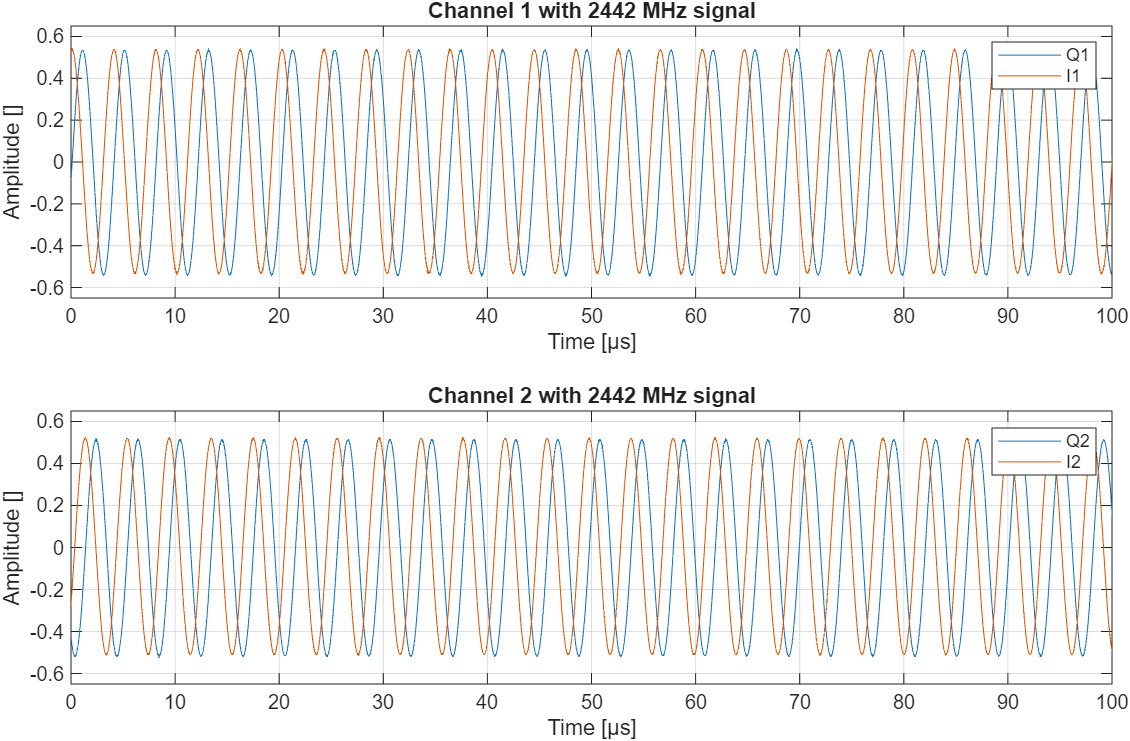
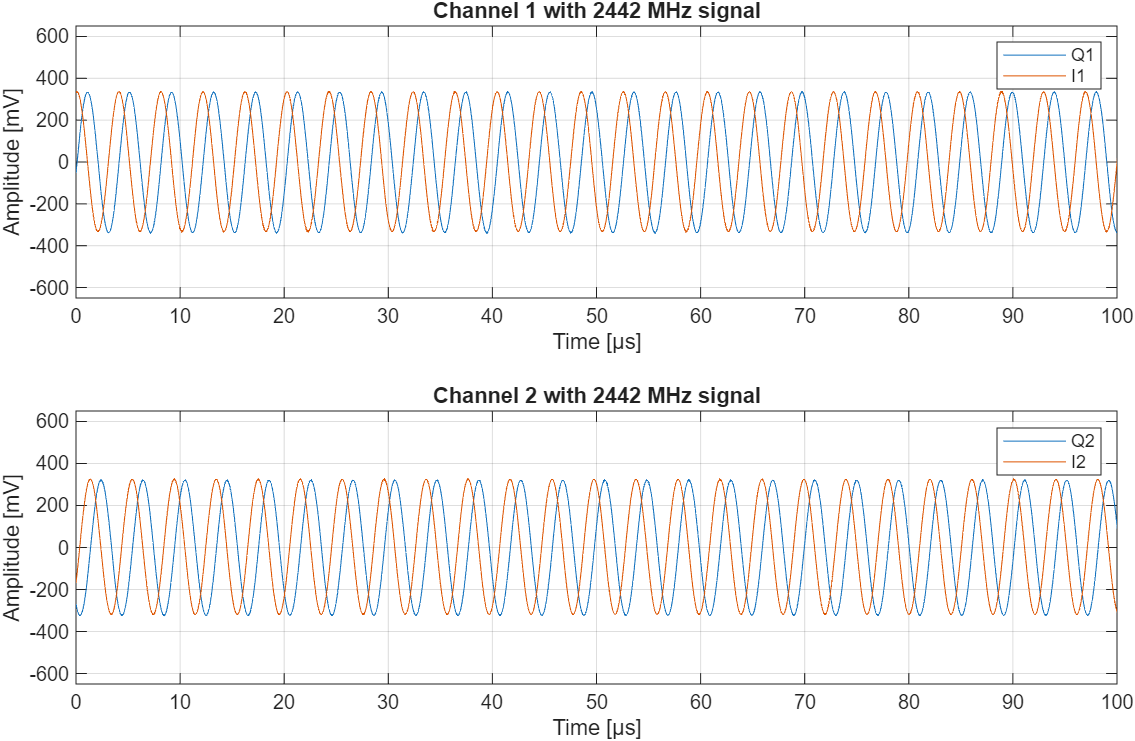
Fikset akse titler og værdier på figure i forhold til validation test af RF front end

diff --git a/04 Prototype udvikling/Front end/RX-frontend V.5 (FINAL)/Not gain adjusted/Test og plot/Plotter.m b/04 Prototype udvikling/Front end/RX-frontend V.5 (FINAL)/Not gain adjusted/Test og plot/Plotter.m
@@ -5,82 +5,73 @@ close all
 load("data.mat")
 
 % Test af Signal generator direkte ind i BladeRF
+% input 400 mVpp
 % Burde få 250kHz ind efter downmixing
 sps = 61.44e6;
 
 %% 2442 MHz
 
-I1 = real(x2442MHz_RX1.Ch1);
-Q1 = imag(x2442MHz_RX1.Ch1);
+I1 = real(x2442MHz_RX1.Ch1)*0.625;
+Q1 = imag(x2442MHz_RX1.Ch1)*0.625;
 
 N_Q1 = length(Q1);
 T_Q1 = (0:(N_Q1-1)) / sps;
 N_I1 = length(I1);
 T_I1 = (0:(N_I1-1)) / sps;
 disp("2442 MHz input")
-fprintf('Maximum amplitude Q1: %.2f m\n', max(Q1)*10^3);
-fprintf('Minimum amplitude Q1: %.2f m\n', min(Q1)*10^3);
-fprintf('Maximum amplitude I1: %.2f m\n', max(I1)*10^3);
-fprintf('Minimum amplitude I1: %.2f m\n', min(I1)*10^3);
-
-fprintf('Maximum amplitude (Volt) Q1: %.2f mV\n', (max(Q1)*10^3)*0.625);
-fprintf('Minimum amplitude (Volt) Q1: %.2f mV\n', (min(Q1)*10^3)*0.625);
-fprintf('Maximum amplitude (Volt) I1: %.2f mV\n', (max(I1)*10^3)*0.625);
-fprintf('Minimum amplitude (Volt) I1: %.2f mV\n', (min(I1)*10^3)*0.625);
+fprintf('Maximum amplitude (Volt) Q1: %.2f mV\n', (max(Q1)*10^3));
+fprintf('Minimum amplitude (Volt) Q1: %.2f mV\n', (min(Q1)*10^3));
+fprintf('Maximum amplitude (Volt) I1: %.2f mV\n', (max(I1)*10^3));
+fprintf('Minimum amplitude (Volt) I1: %.2f mV\n', (min(I1)*10^3));
 
 
-I2 = real(x2442MHz_RX2.Ch2);
-Q2 = imag(x2442MHz_RX2.Ch2);
+I2 = real(x2442MHz_RX2.Ch2)*0.625;
+Q2 = imag(x2442MHz_RX2.Ch2)*0.625;
 
 N_Q2 = length(Q2);
 T_Q2 = (0:(N_Q2-1)) / sps;
 N_I2 = length(I2);
 T_I2 = (0:(N_I2-1)) / sps;
-fprintf('Maximum amplitude Q2: %.2f m\n', max(Q2)*10^3);
-fprintf('Minimum amplitude Q2: %.2f m\n', min(Q2)*10^3);
-fprintf('Maximum amplitude I2: %.2f m\n', max(I2)*10^3);
-fprintf('Minimum amplitude I2: %.2f m\n', min(I2)*10^3);
 
-
-fprintf('Maximum amplitude (Volt) Q2: %.2f mV\n', (max(Q2)*10^3)*0.625);
-fprintf('Minimum amplitude (Volt) Q2: %.2f mV\n', (min(Q2)*10^3)*0.625);
-fprintf('Maximum amplitude (Volt) I2: %.2f mV\n', (max(I2)*10^3)*0.625);
-fprintf('Minimum amplitude (Volt) I2: %.2f mV\n', (min(I2)*10^3)*0.625);
+fprintf('Maximum amplitude (Volt) Q2: %.2f mV\n', (max(Q2)*10^3));
+fprintf('Minimum amplitude (Volt) Q2: %.2f mV\n', (min(Q2)*10^3));
+fprintf('Maximum amplitude (Volt) I2: %.2f mV\n', (max(I2)*10^3));
+fprintf('Minimum amplitude (Volt) I2: %.2f mV\n', (min(I2)*10^3));
 
 figure
 tiledlayout(2,1)
 nexttile
-plot(T_Q1/(10^-6), Q1, DisplayName="Q1")
+plot(T_Q1/(10^-6), Q1/(10^-3), DisplayName="Q1")
 hold on 
-plot(T_I1/(10^-6), I1, DisplayName="I1")
+plot(T_I1/(10^-6), I1/(10^-3), DisplayName="I1")
 grid on
 legend
 title('Channel 1 with 2442 MHz signal')
 xlabel('Time [µs]')
-ylabel('Amplitude []')
+ylabel('Amplitude [mV]')
 xlim([0 65])
-ylim([-0.65 0.65])
+ylim([-650 650])
 hold off
 
 nexttile
-plot(T_Q2/(10^-6), Q2, DisplayName="Q2")
+plot(T_Q2/(10^-6), Q2/(10^-3), DisplayName="Q2")
 hold on 
-plot(T_I2/(10^-6), I2, DisplayName="I2")
+plot(T_I2/(10^-6), I2/(10^-3), DisplayName="I2")
 grid on
 legend
 title('Channel 2 with 2442 MHz signal')
 xlabel('Time [µs]')
-ylabel('Amplitude []')
+ylabel('Amplitude [mV]')
 xlim([0 65])
-ylim([-0.65 0.65])
+ylim([-650 650])
 hold off
 
 
 
 %% 2500 MHz
 
-I1 = real(x2500MHz_RX1.Ch1);
-Q1 = imag(x2500MHz_RX1.Ch1);
+I1 = real(x2500MHz_RX1.Ch1)*0.625;
+Q1 = imag(x2500MHz_RX1.Ch1)*0.625;
 
 N_Q1 = length(Q1);
 T_Q1 = (0:(N_Q1-1)) / sps;
@@ -88,68 +79,57 @@ N_I1 = length(I1);
 T_I1 = (0:(N_I1-1)) / sps;
 
 disp("2500 MHz")
-fprintf('Maximum amplitude Q1: %.2f m\n', max(Q1)*10^3);
-fprintf('Minimum amplitude Q1: %.2f m\n', min(Q1)*10^3);
-fprintf('Maximum amplitude I1: %.2f m\n', max(I1)*10^3);
-fprintf('Minimum amplitude I1: %.2f m\n', min(I1)*10^3);
-
-fprintf('Maximum amplitude (Volt) Q1: %.2f mV\n', (max(Q1)*10^3)*0.625);
-fprintf('Minimum amplitude (Volt) Q1: %.2f mV\n', (min(Q1)*10^3)*0.625);
-fprintf('Maximum amplitude (Volt) I1: %.2f mV\n', (max(I1)*10^3)*0.625);
-fprintf('Minimum amplitude (Volt) I1: %.2f mV\n', (min(I1)*10^3)*0.625);
+fprintf('Maximum amplitude (Volt) Q1: %.2f mV\n', (max(Q1)*10^3));
+fprintf('Minimum amplitude (Volt) Q1: %.2f mV\n', (min(Q1)*10^3));
+fprintf('Maximum amplitude (Volt) I1: %.2f mV\n', (max(I1)*10^3));
+fprintf('Minimum amplitude (Volt) I1: %.2f mV\n', (min(I1)*10^3));
 
 
-I2 = real(x2500MHz_RX2.Ch2);
-Q2 = imag(x2500MHz_RX2.Ch2);
+I2 = real(x2500MHz_RX2.Ch2)*0.625;
+Q2 = imag(x2500MHz_RX2.Ch2)*0.625;
 
 N_Q2 = length(Q2);
 T_Q2 = (0:(N_Q2-1)) / sps;
 N_I2 = length(I2);
 T_I2 = (0:(N_I2-1)) / sps;
-
-fprintf('Maximum amplitude Q2: %.2f m\n', max(Q2)*10^3);
-fprintf('Minimum amplitude Q2: %.2f m\n', min(Q2)*10^3);
-fprintf('Maximum amplitude I2: %.2f m\n', max(I2)*10^3);
-fprintf('Minimum amplitude I2: %.2f m\n', min(I2)*10^3);
-
-fprintf('Maximum amplitude (Volt) Q2: %.2f mV\n', (max(Q2)*10^3)*0.625);
-fprintf('Minimum amplitude (Volt) Q2: %.2f mV\n', (min(Q2)*10^3)*0.625);
-fprintf('Maximum amplitude (Volt) I2: %.2f mV\n', (max(I2)*10^3)*0.625);
-fprintf('Minimum amplitude (Volt) I2: %.2f mV\n', (min(I2)*10^3)*0.625);
+fprintf('Maximum amplitude (Volt) Q2: %.2f mV\n', (max(Q2)*10^3));
+fprintf('Minimum amplitude (Volt) Q2: %.2f mV\n', (min(Q2)*10^3));
+fprintf('Maximum amplitude (Volt) I2: %.2f mV\n', (max(I2)*10^3));
+fprintf('Minimum amplitude (Volt) I2: %.2f mV\n', (min(I2)*10^3));
 
 figure
 tiledlayout(2,1)
 nexttile
-plot(T_Q1/(10^-6), Q1, DisplayName="Q1")
+plot(T_Q1/(10^-6), Q1/(10^-3), DisplayName="Q1")
 hold on
-plot(T_I1/(10^-6), I1, DisplayName="I1")
+plot(T_I1/(10^-6), I1/(10^-3), DisplayName="I1")
 grid on
 legend
 title('Channel 2 with 2500 MHz signal')
 xlabel('Time [µs]')
-ylabel('Amplitude []')
+ylabel('Amplitude [mV]')
 xlim([0 65])
-ylim([-0.025 0.025])
+ylim([-25 25])
 hold off
 
 nexttile
-plot(T_Q2/(10^-6), Q2, DisplayName="Q2")
+plot(T_Q2/(10^-6), Q2/(10^-3), DisplayName="Q2")
 hold on 
-plot(T_I2/(10^-6), I2, DisplayName="I2")
+plot(T_I2/(10^-6), I2/(10^-3), DisplayName="I2")
 grid on
 legend
 title('Channel 2 with 2500 MHz signal')
 xlabel('Time [µs]')
-ylabel('Amplitude []')
+ylabel('Amplitude [mV]')
 xlim([0 65])
-ylim([-0.025 0.025])
+ylim([-25 25])
 hold off
 
 
 %% Noise
 
-I1 = real(xNoise.Ch1);
-Q1 = imag(xNoise.Ch1);
+I1 = real(xNoise.Ch1)*0.625;
+Q1 = imag(xNoise.Ch1)*0.625;
 
 N_Q1 = length(Q1);
 T_Q1 = (0:(N_Q1-1)) / sps;
@@ -158,59 +138,49 @@ T_I1 = (0:(N_I1-1)) / sps;
 
 
 disp("Noise")
-fprintf('Maximum amplitude Q1: %.2f m\n', max(Q1)*10^3);
-fprintf('Minimum amplitude Q1: %.2f m\n', min(Q1)*10^3);
-fprintf('Maximum amplitude I1: %.2f m\n', max(I1)*10^3);
-fprintf('Minimum amplitude I1: %.2f m\n', min(I1)*10^3);
-
-fprintf('Maximum amplitude (Volt) Q1: %.2f mV\n', (max(Q1)*10^3)*0.625);
-fprintf('Minimum amplitude (Volt) Q1: %.2f mV\n', (min(Q1)*10^3)*0.625);
-fprintf('Maximum amplitude (Volt) I1: %.2f mV\n', (max(I1)*10^3)*0.625);
-fprintf('Minimum amplitude (Volt) I1: %.2f mV\n', (min(I1)*10^3)*0.625);
+fprintf('Maximum amplitude (Volt) Q1: %.2f mV\n', (max(Q1)*10^3));
+fprintf('Minimum amplitude (Volt) Q1: %.2f mV\n', (min(Q1)*10^3));
+fprintf('Maximum amplitude (Volt) I1: %.2f mV\n', (max(I1)*10^3));
+fprintf('Minimum amplitude (Volt) I1: %.2f mV\n', (min(I1)*10^3));
 
 
-I2 = real(xNoise.Ch2);
-Q2 = imag(xNoise.Ch2);
+I2 = real(xNoise.Ch2)*0.625;
+Q2 = imag(xNoise.Ch2)*0.625;
 
 N_Q2 = length(Q2);
 T_Q2 = (0:(N_Q2-1)) / sps;
 N_I2 = length(I2);
 T_I2 = (0:(N_I2-1)) / sps;
 
-fprintf('Maximum amplitude Q2: %.2f m\n', max(Q2)*10^3);
-fprintf('Minimum amplitude Q2: %.2f m\n', min(Q2)*10^3);
-fprintf('Maximum amplitude I2: %.2f m\n', max(I2)*10^3);
-fprintf('Minimum amplitude I2: %.2f m\n', min(I2)*10^3);
-
-fprintf('Maximum amplitude (Volt) Q2: %.2f mV\n', (max(Q2)*10^3)*0.625);
-fprintf('Minimum amplitude (Volt) Q2: %.2f mV\n', (min(Q2)*10^3)*0.625);
-fprintf('Maximum amplitude (Volt) I2: %.2f mV\n', (max(I2)*10^3)*0.625);
-fprintf('Minimum amplitude (Volt) I2: %.2f mV\n', (min(I2)*10^3)*0.625);
+fprintf('Maximum amplitude (Volt) Q2: %.2f mV\n', (max(Q2)*10^3));
+fprintf('Minimum amplitude (Volt) Q2: %.2f mV\n', (min(Q2)*10^3));
+fprintf('Maximum amplitude (Volt) I2: %.2f mV\n', (max(I2)*10^3));
+fprintf('Minimum amplitude (Volt) I2: %.2f mV\n', (min(I2)*10^3));
 
 figure
 tiledlayout(2,1)
 nexttile
-plot(T_Q1/(10^-6), Q1, DisplayName="Q1")
+plot(T_Q1/(10^-6), Q1/(10^-3), DisplayName="Q1")
 hold on 
-plot(T_I1/(10^-6), I1, DisplayName="I1")
+plot(T_I1/(10^-6), I1/(10^-3), DisplayName="I1")
 grid on
 legend
 title('Channel 1 with no input')
 xlabel('Time [µs]')
-ylabel('Amplitude []')
+ylabel('Amplitude [mV]')
 xlim([0 65])
-ylim([-0.025 0.025])
+ylim([-25 25])
 hold off
 
 nexttile
-plot(T_Q2/(10^-6), Q2, DisplayName="Q2")
+plot(T_Q2/(10^-6), Q2/(10^-3), DisplayName="Q2")
 hold on 
-plot(T_I2/(10^-6), I2, DisplayName="I2")
+plot(T_I2/(10^-6), I2/(10^-3), DisplayName="I2")
 grid on
 legend
 title('Channel 2 with no input')
 xlabel('Time [ms]')
-ylabel('Amplitude []')
+ylabel('Amplitude [mV]')
 xlim([0 65])
-ylim([-0.025 0.025])
+ylim([-25 25])
 hold off

diff --git a/04 Prototype udvikling/Front end/RX-frontend V.5 (FINAL)/Not gain adjusted/Test og plot/Finding_Frequencies.m b/04 Prototype udvikling/Front end/RX-frontend V.5 (FINAL)/Not gain adjusted/Test og plot/Finding_Frequencies.m
@@ -2,14 +2,10 @@ clc;
 clear;
 close all;
 
-% ================================
-% Load data
-% ================================
 load("data.mat");
 
-% Complex IQ from BladeRF
-IQ1 = x2442MHz_RX1.Ch1;
-IQ2 = x2442MHz_RX2.Ch2;
+IQ1 = x2442MHz_RX1.Ch1*0.625;
+IQ2 = x2442MHz_RX2.Ch2*0.625;
 
 % Sample rate
 Fs = 61.44e6;
